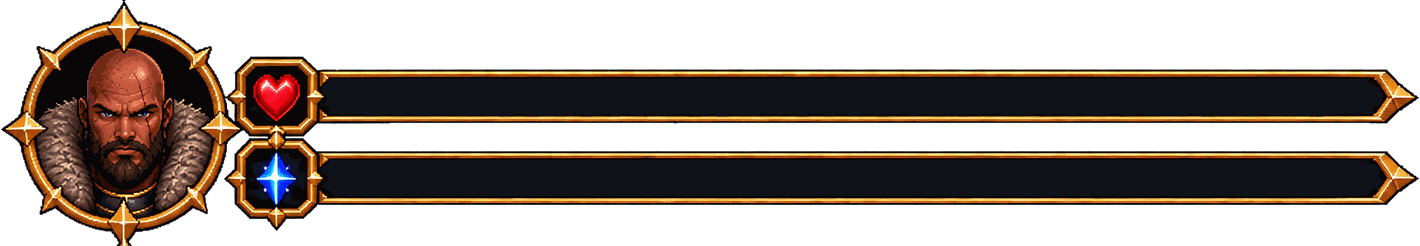
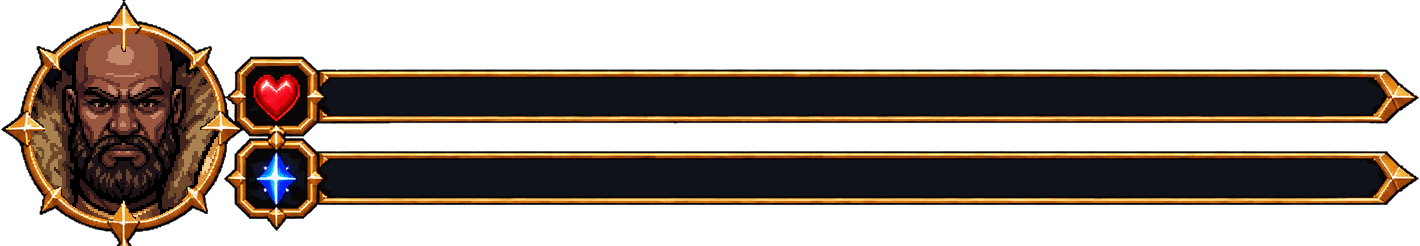
feat(arte): retratos dos herois em pixel art (HUD e menu de alvo) e placa FECHADO no estilo da carroca (v354)
Claude-Session: https://claude.ai/code/session_01CFCxNXfixuMsFnbxiF9Xf2

Changed region(s): [[0.0, 0.1423, 0.1549, 0.9106]]

diff --git a/sw.js b/sw.js
@@ -1,6 +1,6 @@
-const CACHE='bd1-rpg-v353';
+const CACHE='bd1-rpg-v354';
 const ASSETS=['./js/online/match.js','./relatorio.html','./css/relatorio.css','./js/pages/relatorio.js','./js/online/online.js','./saves.html','./css/saves.css','./js/pages/savesui.js','./conta.html','./css/conta.css','./js/pages/conta.js','./assets/salas/orb.png','./salas.html','./css/salas.css','./js/pages/salas.js','./js/core/gate.js','./js/online/net.js','./js/vendor/supabase.js','./assets/salas/ic_lock.png','./assets/salas/ic_unlock.png','./assets/salas/ic_people.png','./assets/salas/ic_plus.png','./assets/salas/ic_key.png','./assets/salas/ic_mage.png','./assets/salas/ic_guerreiro.png','./assets/salas/ic_tank.png','./assets/salas/ic_cleriga.png','./js/game/stage.js','./js/game/hrimgar.js','./js/game/ambient_ice.js','./assets/backgrounds/game_nohud_ice.png','./assets/backgrounds/game_clean_ice.png','./assets/bosses/hrimgar/a1.png','./assets/bosses/hrimgar/a2.png','./assets/bosses/hrimgar/a3.png','./assets/bosses/hrimgar/a4.png','./assets/bosses/hrimgar/a5.png','./assets/bosses/hrimgar/a6.png','./assets/bosses/hrimgar/fx.json','./assets/bosses/hrimgar/fx_blood.png','./assets/bosses/hrimgar/fx_flake.png','./assets/bosses/hrimgar/fx_frost.png','./assets/bosses/hrimgar/fx_pillar.png','./assets/bosses/hrimgar/fx_pillar2.png','./assets/bosses/hrimgar/fx_pillarb.png','./assets/bosses/hrimgar/fx_seal.png','./assets/bosses/hrimgar/fx_sh1.png','./assets/bosses/hrimgar/fx_sh2.png','./assets/bosses/hrimgar/fx_sh3.png','./assets/bosses/hrimgar/fx_shards.png','./assets/bosses/hrimgar/fx_shards2.png','./assets/bosses/hrimgar/fx_sl1.png','./assets/bosses/hrimgar/fx_sl2.png','./assets/bosses/hrimgar/fx_sl3.png','./assets/bosses/hrimgar/fx_sl4.png','./assets/bosses/hrimgar/fx_slline.png','./assets/bosses/hrimgar/fx_slx.png','./assets/bosses/hrimgar/meta.json','./assets/bosses/hrimgar/n1.png','./assets/bosses/hrimgar/n2.png','./assets/bosses/hrimgar/n3.png','./assets/bosses/hrimgar/n4.png','./assets/bosses/hrimgar/n5.png','./assets/bosses/hrimgar/n6.png','./assets/bosses/hrimgar/p1.png','./assets/bosses/hrimgar/p2.png','./assets/bosses/hrimgar/p3.png','./assets/bosses/hrimgar/p4.png','./assets/bosses/hrimgar/p5.png','./assets/bosses/hrimgar/p6.png','./assets/bosses/hrimgar/s1.png','./assets/bosses/hrimgar/v1.png','./assets/bosses/hrimgar/v2.png','./assets/bosses/hrimgar/v3.png','./assets/bosses/hrimgar/v4.png','./assets/bosses/hrimgar/v5.png','./assets/bosses/hrimgar/v6.png','./assets/bosses/hrimgar/w1.png','./assets/bosses/hrimgar/w2.png','./assets/bosses/hrimgar/w3.png','./assets/bosses/hrimgar/w4.png','./assets/bosses/hrimgar/w5.png','./assets/bosses/hrimgar/w6.png','./assets/bosses/hrimgar/x1.png','./assets/bosses/hrimgar/x2.png','./assets/bosses/hrimgar/x3.png','./assets/bosses/hrimgar/x4.png','./assets/bosses/hrimgar/x5.png','./assets/bosses/hrimgar/x6.png','./','./index.html','./game.html','./js/pages/lobby.js','./assets/ui/inv_panel.png','./assets/ui/shop_panel.png','./assets/ui/merchant_portrait.png','./assets/ui/shop_sign.png','./assets/ui/btn_bag.png','./assets/ui/btn_shop.png','./assets/ui/tip_parchment.png','./assets/class-select/skm_mage.png','./assets/class-select/skm_guerreiro.png','./assets/class-select/skm_tank.png','./assets/class-select/skm_cleriga.png','./assets/class-select/skm_mage_5.png','./assets/class-select/skm_guerreiro_5.png','./assets/class-select/skm_tank_5.png','./assets/class-select/skm_cleriga_5.png','./assets/skills/air.png','./assets/skills/back.png','./assets/skills/cleriga_atk.png','./assets/skills/cleriga_def.png','./assets/skills/cleriga_holy_atk.png','./assets/skills/cleriga_holy_def.png','./assets/skills/cleriga_ult.png','./assets/skills/dodge.png','./assets/skills/earth.png','./assets/skills/fire.png','./assets/skills/guerreiro_atk.png','./assets/skills/guerreiro_def.png','./assets/skills/guerreiro_heavy.png','./assets/skills/guerreiro_pass.png','./assets/skills/guerreiro_ult.png','./assets/skills/mage_elem_atk.png','./assets/skills/mage_elem_def.png','./assets/skills/mage_mana_atk.png','./assets/skills/mage_mana_def.png','./assets/skills/mage_ult.png','./assets/skills/tank_atk.png','./assets/skills/tank_def.png','./assets/skills/tank_guard.png','./assets/skills/tank_super.png','./assets/skills/tank_ult.png','./assets/skills/water.png','./js/game/menu_meta.js','./assets/ui/icon_chip_flame.png','./assets/ui/ui_cs_blue.png','./assets/ui/ui_cs_purple.png','./assets/ui/ui_cs_grey.png','./assets/ui/ui_cs_green.png','./assets/ui/ui_cs_red.png','./assets/ui/ui_cs_gold.png','./assets/ui/ui_chip_blue.png','./assets/ui/icon_chip_hourglass.png','./assets/ui/icon_chip_hourglass_red.png','./assets/ui/icon_chip_sword.png','./assets/ui/icon_chip_demon.png','./assets/ui/icon_chip_normal.png','./assets/ui/icon_chip_elem.png','./assets/ui/ui_box.png','./assets/ui/ui_chip.png','./assets/ui/ui_chip_hi.png','./assets/ui/ui_chip_red.png','./assets/class-select/tp_mage.png','./assets/class-select/tp_guerreiro.png','./assets/class-select/tp_tank.png','./assets/class-select/tp_cleriga.png','./css/lobby.css','./assets/backgrounds/select_plate.webp','./assets/ui/tip_frame.png','./assets/ui/enter_panel.png','./assets/ui/enter_btn.png','./assets/ui/enter_btn_on.png','./assets/ui/enter_btn_off.png','./assets/ui/pick_btn_on.png','./assets/ui/pick_btn_off.png','./assets/class-select/char_mage.webp','./assets/class-select/char_guerreiro.webp','./assets/class-select/char_tank.webp','./assets/class-select/char_cleriga.webp','./assets/class-select/panel_mage.webp','./assets/class-select/panel_guerreiro.webp','./assets/class-select/panel_tank.webp','./assets/class-select/panel_cleriga.webp','./css/style.css','./js/game/app.js','./js/game/anim.js','./js/game/extras.js','./js/core/pxfx.js','./js/game/boss.js','./assets/bosses/lorde/goblin.png','./js/game/ambient.js','./js/core/paper.js','./assets/fonts/openc.woff2','./assets/fonts/opencl.woff2','./assets/fonts/opend.woff2','./assets/fonts/pixelify-sans-latin-500-normal.woff2','./assets/fonts/pixelify-sans-latin-700-normal.woff2','./data/anim_manifest.json','./assets/skel/skel_face.png','./js/game/intro.js','./map.html','./css/fog.css','./js/core/fog.js','./assets/fog/top.webp','./assets/fog/bot.webp','./css/map.css','./js/pages/map.js','./js/core/quotes.js','./js/game/hud.js','./assets/map/ui_title.webp','./assets/map/ui_compass.webp','./assets/map/ui_legend.webp','./assets/map/ui_quote.webp','./js/pages/mapfx.js','./assets/map/water.png','./assets/map/base.webp','./assets/map/meta.json','./assets/map/ic_done.webp','./assets/map/ic_next.webp','./assets/map/ic_lock.webp','./assets/map/halo0_blue.webp','./assets/map/halo1_green.webp','./assets/map/gray0.webp','./assets/map/gray1.webp','./assets/map/gray2.webp','./assets/map/gray3.webp','./assets/map/gray4.webp','./assets/map/gray5.webp','./assets/intro/throne_close.webp','./assets/intro/throne_far.webp','./assets/intro/ice_close.webp','./assets/intro/ice_crack.webp','./assets/intro/ice_far.webp','./js/game/intro_ice.js','./js/game/intro_malg.js','./js/game/cine.js','./intro_malg.html','./assets/ui/mal_cap.png','./assets/intro/malg_hand.webp','./assets/intro/malg_face.webp','./assets/intro/malg_stand.webp','./assets/ui/ice_cap.png','./intro_ice.html','./assets/backgrounds/game_clean.png','./assets/backgrounds/game_nohud.png','./assets/hud/hud_mage.png','./assets/hud/hud_guerreiro.png','./assets/hud/hud_tank.png','./assets/hud/hud_cleriga.png','./assets/ui/question_panel.png','./assets/ui/icon_coin.png','./manifest.webmanifest','./assets/items/potion_hp.png','./assets/items/potion_hp_s.png','./assets/items/potion_hp_l.png','./assets/items/potion_mana_s.png','./assets/items/potion_mana_l.png','./assets/items/potion_mana.png','./assets/ui/btn_wood.png','./assets/ui/btn_dark.png','./assets/ui/btn_gold.png','./editor.html','./data/perguntas.json','./assets/items/chest_f0.png','./assets/items/chest_f1.png','./assets/items/chest_f2.png','./assets/items/chest_f3.png','./assets/items/item_amulet.png','./assets/items/item_blade.png','./assets/items/item_dice.png','./assets/items/item_elixir.png','./assets/items/item_helm.png','./assets/items/item_herb.png','./assets/items/item_hourglass.png','./assets/items/item_iron_shield.png','./assets/items/item_lens.png','./assets/items/item_lightbomb.png','./assets/items/item_luckycoin.png','./assets/items/item_phoenix.png','./assets/items/item_powder.png','./cover.html','./css/cover.css','./js/pages/cover.js','./js/core/rebuild.js','./js/core/pwtoggle.js','./espectar.html','./perguntas.html','./css/espectar.css','./js/pages/espectar.js','./js/online/spectate.js','./js/online/chat.js','./mosaico.html','./gerenciar.html','./css/gerenciar.css','./js/pages/gerenciar.js','./js/pages/mosaico.js','./js/pages/saves.js','./js/core/fs.js','./shell.html','./assets/ui/fs_icon.png','./assets/ui/fs_icon_in.png','./assets/backgrounds/cover_bg.webp','./assets/items/item_scroll.png','./assets/items/item_watch_s.png','./assets/items/item_watch_l.png','./assets/items/item_smokebomb.png','./assets/items/item_tonic.png','./js/game/vfx.js','./data/vfx_manifest.json','./assets/bosses/lorde/anim/manifest.json','./anim/mage_idle1.png','./anim/mage_idle2.png','./anim/mage_idle3.png','./anim/mage_cast_mm2.png','./anim/mage_defesa.png','./anim/mage_esquiva.png','./anim/mage_dano2.png','./anim/mage_acerto.png','./anim/mage_erro.png','./anim/mage_vitoria.png','./anim/mage_suprema_final.png','./anim/mage_morte.png','./anim/mage_reviver.png','./anim/cleriga_idle1.png','./anim/cleriga_idle2.png','./anim/cleriga_idle3.png','./anim/cleriga_holy.png','./anim/cleriga_melee.png','./anim/cleriga_defesa.png','./anim/cleriga_esquiva.png','./anim/cleriga_dano.png','./anim/cleriga_acerto.png','./anim/cleriga_erro.png','./anim/cleriga_vitoria.png','./anim/cleriga_ult.png','./anim/cleriga_morte.png','./anim/cleriga_reviver.png','./anim/tank_idle1.png','./anim/tank_idle2.png','./anim/tank_idle3.png','./anim/tank_melee.png','./anim/tank_heavy.png','./anim/tank_guard.png','./anim/tank_cover.png','./anim/tank_dodge.png','./anim/tank_hurt.png','./anim/tank_right.png','./anim/tank_wrong.png','./anim/tank_victory.png','./anim/tank_ult.png','./anim/tank_death.png','./anim/tank_revive.png','./anim/guerreiro_idle1.png','./anim/guerreiro_idle2.png','./anim/guerreiro_melee.png','./anim/guerreiro_heavy.png','./anim/guerreiro_guard.png','./anim/guerreiro_dodge.png','./anim/guerreiro_hurt.png','./anim/guerreiro_right.png','./anim/guerreiro_wrong.png','./anim/guerreiro_victory.png','./anim/guerreiro_ult.png','./anim/guerreiro_death.png','./anim/guerreiro_revive.png','./anim/guerreiro_pass.png','./assets/fx/maga-agua-conjuracao.png','./assets/fx/maga-agua-escudo.png','./assets/fx/maga-agua-impacto.png','./assets/fx/maga-agua-projetil.png','./assets/fx/maga-ar-conjuracao.png','./assets/fx/maga-ar-escudo.png','./assets/fx/maga-ar-impacto.png','./assets/fx/maga-ar-projetil.png','./assets/fx/maga-buraco-negro.png','./assets/fx/maga-esquiva-velocidade.png','./assets/fx/maga-fogo-conjuracao.png','./assets/fx/maga-fogo-escudo.png','./assets/fx/maga-fogo-impacto.png','./assets/fx/maga-fogo-projetil.png','./assets/fx/maga-mana-conjuracao.png','./assets/fx/maga-mana-escudo.png','./assets/fx/maga-mana-impacto.png','./assets/fx/maga-mana-projetil.png','./assets/fx/maga-terra-conjuracao.png','./assets/fx/maga-terra-escudo.png','./assets/fx/maga-terra-impacto.png','./assets/fx/maga-terra-projetil.png','./assets/fx/cleriga-defesa-escudo.png','./assets/fx/cleriga-sagrado-conjuracao.png','./assets/fx/cleriga-sagrado-escudo.png','./assets/fx/cleriga-sagrado-impacto.png','./assets/fx/cleriga-sagrado-raio.png','./assets/fx/fisico-impacto.png','./assets/fx/tank-martelo-impacto.png','./assets/fx/tank-onda-choque.png','./assets/fx/tank-protecao.png','./assets/fx/tank-provocacao.png','./assets/fx/tank-defesa.png','./assets/fx/guerreiro-corte-pesado.png','./assets/fx/guerreiro-corte.png','./assets/fx/guerreiro-passar.png','./assets/fx/guerreiro-berserk-frente.png','./assets/fx/guerreiro-berserk-tras.png','./assets/fx/malgorath-cacos.png','./assets/fx/malgorath-carga.png','./assets/fx/malgorath-corte.png','./assets/fx/malgorath-erupcao.png','./assets/fx/malgorath-explosao.png','./assets/fx/malgorath-fumaca.png','./assets/fx/malgorath-lanca.png','./assets/fx/malgorath-onda-choque.png','./assets/fx/malgorath-orbe.png','./assets/fx/malgorath-sigilo.png','./assets/bosses/lorde/anim/malgorath_idle.png','./assets/bosses/lorde/anim/malgorath_slashH.png','./assets/bosses/lorde/anim/malgorath_slashV.png','./assets/bosses/lorde/anim/malgorath_thrust.png','./assets/bosses/lorde/anim/malgorath_summon.png','./assets/bosses/lorde/anim/malgorath_aoe.png','./assets/bosses/lorde/anim/malgorath_enrage.png','./assets/bosses/lorde/anim/malgorath_phase2.png','./assets/bosses/lorde/anim/malgorath_prep.png','./assets/bosses/lorde/anim/malgorath_laugh.png','./assets/bosses/lorde/anim/malgorath_hurt.png','./assets/bosses/lorde/anim/malgorath_hurtLight.png','./assets/bosses/lorde/anim/malgorath_die.png','./assets/bosses/lorde/anim/malgorath_tpOut.png','./assets/bosses/lorde/anim/malgorath_tpIn.png','./assets/bosses/lorde/anim/malgorath_gagLook.png','./assets/bosses/lorde/anim/malgorath_gagDismiss.png'];
-const REV={"assets/salas/orb.png":"d1efaf7011","assets/salas/ic_lock.png":"1cc5035c6e","assets/salas/ic_unlock.png":"486731cc38","assets/salas/ic_people.png":"506120bfcd","assets/salas/ic_plus.png":"147d054e0d","assets/salas/ic_key.png":"02beda9450","assets/salas/ic_mage.png":"60ee1a09f4","assets/salas/ic_guerreiro.png":"6c899a1454","assets/salas/ic_tank.png":"9ea957d8b2","assets/salas/ic_cleriga.png":"1d6657480b","assets/backgrounds/game_nohud_ice.png":"5cb5477c12","assets/backgrounds/game_clean_ice.png":"5cb5477c12","assets/bosses/hrimgar/a1.png":"b0234f3b75","assets/bosses/hrimgar/a2.png":"63d40987f5","assets/bosses/hrimgar/a3.png":"10280dd9d4","assets/bosses/hrimgar/a4.png":"9781d8e255","assets/bosses/hrimgar/a5.png":"b5bd1af9e7","assets/bosses/hrimgar/a6.png":"80fbdc0921","assets/bosses/hrimgar/fx_blood.png":"7bfbaf12ce","assets/bosses/hrimgar/fx_flake.png":"2dc6a7d3ce","assets/bosses/hrimgar/fx_frost.png":"5d69cc54eb","assets/bosses/hrimgar/fx_pillar.png":"2111016d72","assets/bosses/hrimgar/fx_pillar2.png":"3c948df478","assets/bosses/hrimgar/fx_pillarb.png":"e753091964","assets/bosses/hrimgar/fx_seal.png":"fd3754ab69","assets/bosses/hrimgar/fx_sh1.png":"2b4d754866","assets/bosses/hrimgar/fx_sh2.png":"f2f76dec42","assets/bosses/hrimgar/fx_sh3.png":"100a2b7b2c","assets/bosses/hrimgar/fx_shards.png":"d93657d15a","assets/bosses/hrimgar/fx_shards2.png":"93f7b27c07","assets/bosses/hrimgar/fx_sl1.png":"816e41ae18","assets/bosses/hrimgar/fx_sl2.png":"8884db6345","assets/bosses/hrimgar/fx_sl3.png":"335d125092","assets/bosses/hrimgar/fx_sl4.png":"d2f7904826","assets/bosses/hrimgar/fx_slline.png":"3054785212","assets/bosses/hrimgar/fx_slx.png":"aace504f71","assets/bosses/hrimgar/n1.png":"7202ed24a6","assets/bosses/hrimgar/n2.png":"6dec7b74d2","assets/bosses/hrimgar/n3.png":"dd00445736","assets/bosses/hrimgar/n4.png":"ba0e290d37","assets/bosses/hrimgar/n5.png":"18757d4289","assets/bosses/hrimgar/n6.png":"61b383acff","assets/bosses/hrimgar/p1.png":"023057d663","assets/bosses/hrimgar/p2.png":"cde6a77cb3","assets/bosses/hrimgar/p3.png":"72d11dfc64","assets/bosses/hrimgar/p4.png":"e5801c650a","assets/bosses/hrimgar/p5.png":"d54f58a7a2","assets/bosses/hrimgar/p6.png":"d7313346e0","assets/bosses/hrimgar/s1.png":"77e88203c6","assets/bosses/hrimgar/v1.png":"d3d9dba592","assets/bosses/hrimgar/v2.png":"a155553b23","assets/bosses/hrimgar/v3.png":"b3ff557c1e","assets/bosses/hrimgar/v4.png":"b98eb338a0","assets/bosses/hrimgar/v5.png":"04bb27c1ea","assets/bosses/hrimgar/v6.png":"0bb5a7bb3c","assets/bosses/hrimgar/w1.png":"2099500d0e","assets/bosses/hrimgar/w2.png":"754bc5c981","assets/bosses/hrimgar/w3.png":"b037b9bf31","assets/bosses/hrimgar/w4.png":"623807d56e","assets/bosses/hrimgar/w5.png":"2862ac1f77","assets/bosses/hrimgar/w6.png":"b1e25c6860","assets/bosses/hrimgar/x1.png":"44a6e6f51d","assets/bosses/hrimgar/x2.png":"e9dac7d4ea","assets/bosses/hrimgar/x3.png":"ae4256e35a","assets/bosses/hrimgar/x4.png":"551bacda5a","assets/bosses/hrimgar/x5.png":"1d817fd7af","assets/bosses/hrimgar/x6.png":"f802a8f989","assets/ui/inv_panel.png":"aa48b37748","assets/ui/shop_panel.png":"27c0735cfc","assets/ui/merchant_portrait.png":"7defb297ab","assets/ui/shop_sign.png":"8471befff2","assets/ui/btn_bag.png":"51f5ac84a8","assets/ui/btn_shop.png":"04c2d188e0","assets/ui/tip_parchment.png":"32690c54ff","assets/class-select/skm_mage.png":"e01af5944d","assets/class-select/skm_guerreiro.png":"b6c453aba9","assets/class-select/skm_tank.png":"79900a343f","assets/class-select/skm_cleriga.png":"4d3e7d54a0","assets/class-select/skm_mage_5.png":"7c401867ce","assets/class-select/skm_guerreiro_5.png":"b8a776d29d","assets/class-select/skm_tank_5.png":"832c15f618","assets/class-select/skm_cleriga_5.png":"2442c0320f","assets/skills/air.png":"00f23ced94","assets/skills/back.png":"c19f110227","assets/skills/cleriga_atk.png":"6aef9c395c","assets/skills/cleriga_def.png":"9bcc3f5cae","assets/skills/cleriga_holy_atk.png":"2d3470cb85","assets/skills/cleriga_holy_def.png":"9f2738b8d5","assets/skills/cleriga_ult.png":"947aba1669","assets/skills/dodge.png":"ae6ee5c5fa","assets/skills/earth.png":"246f1615b3","assets/skills/fire.png":"104f862421","assets/skills/guerreiro_atk.png":"0e02ada494","assets/skills/guerreiro_def.png":"777863145e","assets/skills/guerreiro_heavy.png":"0505a0f6b1","assets/skills/guerreiro_pass.png":"a3bcc4250a","assets/skills/guerreiro_ult.png":"fb7e4db1b9","assets/skills/mage_elem_atk.png":"0e61c91948","assets/skills/mage_elem_def.png":"9f83151920","assets/skills/mage_mana_atk.png":"e38b33163d","assets/skills/mage_mana_def.png":"9fb60263a8","assets/skills/mage_ult.png":"91487212f5","assets/skills/tank_atk.png":"5e7cb605eb","assets/skills/tank_def.png":"4393303d5b","assets/skills/tank_guard.png":"f3a2535dd9","assets/skills/tank_super.png":"1a5d77eec3","assets/skills/tank_ult.png":"a12489b24b","assets/skills/water.png":"c3f2481fe3","assets/ui/icon_chip_flame.png":"8cc594b5eb","assets/ui/ui_cs_blue.png":"532e4ca80e","assets/ui/ui_cs_purple.png":"9300ab2e19","assets/ui/ui_cs_grey.png":"520b50c18b","assets/ui/ui_cs_green.png":"07a52ea496","assets/ui/ui_cs_red.png":"0c1a718a8e","assets/ui/ui_cs_gold.png":"b1dac451c0","assets/ui/ui_chip_blue.png":"801a791e2a","assets/ui/icon_chip_hourglass.png":"b52c6a9a5c","assets/ui/icon_chip_hourglass_red.png":"b212d04904","assets/ui/icon_chip_sword.png":"25daead56e","assets/ui/icon_chip_demon.png":"6c24e728ea","assets/ui/icon_chip_normal.png":"d9d3978bfa","assets/ui/icon_chip_elem.png":"f934dc60bd","assets/ui/ui_box.png":"6e1f21f399","assets/ui/ui_chip.png":"0b57493096","assets/ui/ui_chip_hi.png":"3e2aa78427","assets/ui/ui_chip_red.png":"1ec4342d38","assets/class-select/tp_mage.png":"4e3b06d227","assets/class-select/tp_guerreiro.png":"037d2af3de","assets/class-select/tp_tank.png":"380657090f","assets/class-select/tp_cleriga.png":"ac73076e1a","assets/backgrounds/select_plate.webp":"44465957fd","assets/ui/tip_frame.png":"c3369c78ff","assets/ui/enter_panel.png":"9775f0cc6d","assets/ui/enter_btn.png":"c4bdacfe4f","assets/ui/enter_btn_on.png":"489f938cb9","assets/ui/enter_btn_off.png":"88be22d64b","assets/ui/pick_btn_on.png":"ce8fff7eff","assets/ui/pick_btn_off.png":"8fc52bcab8","assets/class-select/char_mage.webp":"ae7addf5fc","assets/class-select/char_guerreiro.webp":"a2a98c558a","assets/class-select/char_tank.webp":"31f3c7fa56","assets/class-select/char_cleriga.webp":"545e5ca007","assets/class-select/panel_mage.webp":"b464a78046","assets/class-select/panel_guerreiro.webp":"3e2d40dec4","assets/class-select/panel_tank.webp":"14d775fb7a","assets/class-select/panel_cleriga.webp":"a642a181b8","assets/bosses/lorde/goblin.png":"5c82cbf4e2","assets/fonts/openc.woff2":"c936defdb6","assets/fonts/opencl.woff2":"3690b8193a","assets/fonts/opend.woff2":"34c0e0dc52","assets/fonts/pixelify-sans-latin-500-normal.woff2":"8573b1316f","assets/fonts/pixelify-sans-latin-700-normal.woff2":"34b68fb9c4","assets/skel/skel_face.png":"7cbbcdd549","assets/fog/top.webp":"76a4b0be7b","assets/fog/bot.webp":"8deec3f992","assets/map/ui_title.webp":"eab8cf29e2","assets/map/ui_compass.webp":"23c2e81a8f","assets/map/ui_legend.webp":"20ab66fefb","assets/map/ui_quote.webp":"f756681563","assets/map/water.png":"627679655f","assets/map/base.webp":"a86416c977","assets/map/ic_done.webp":"8b3e9e715f","assets/map/ic_next.webp":"f5f75fdac7","assets/map/ic_lock.webp":"785458918f","assets/map/halo0_blue.webp":"92326af589","assets/map/halo1_green.webp":"e58554abc4","assets/map/gray0.webp":"065108e8aa","assets/map/gray1.webp":"c2921ebd6d","assets/map/gray2.webp":"fb7f4595ad","assets/map/gray3.webp":"4bb3d354c0","assets/map/gray4.webp":"be9651d346","assets/map/gray5.webp":"f294079863","assets/intro/throne_close.webp":"8faab12112","assets/intro/throne_far.webp":"a1fb7f9369","assets/intro/ice_close.webp":"9dd5e0d9c6","assets/intro/ice_crack.webp":"d174e862df","assets/intro/ice_far.webp":"aaee89aebc","assets/ui/mal_cap.png":"a99b2df60f","assets/intro/malg_hand.webp":"8bc0438819","assets/intro/malg_face.webp":"9ae460e280","assets/intro/malg_stand.webp":"7aa4370c29","assets/ui/ice_cap.png":"6ac18bdbb9","assets/backgrounds/game_clean.png":"b49f7c3ffb","assets/backgrounds/game_nohud.png":"0162b9a68b","assets/hud/hud_mage.png":"ba04b1ea7d","assets/hud/hud_guerreiro.png":"eead66721d","assets/hud/hud_tank.png":"1f3acf26d8","assets/hud/hud_cleriga.png":"97c7801c4a","assets/ui/question_panel.png":"584a142acb","assets/ui/icon_coin.png":"b701da35c3","assets/items/potion_hp.png":"57f9e11910","assets/items/potion_hp_s.png":"bd483b20a8","assets/items/potion_hp_l.png":"3e2666035c","assets/items/potion_mana_s.png":"87b911d049","assets/items/potion_mana_l.png":"02b9f308c4","assets/items/potion_mana.png":"7822c4c93b","assets/ui/btn_wood.png":"779e92afad","assets/ui/btn_dark.png":"d52ebc15b9","assets/ui/btn_gold.png":"42c67655e6","assets/items/chest_f0.png":"e828ab2360","assets/items/chest_f1.png":"b8be9e5206","assets/items/chest_f2.png":"d1ea9fc16a","assets/items/chest_f3.png":"c84c7faec1","assets/items/item_amulet.png":"3957ec1d85","assets/items/item_blade.png":"4118e8221d","assets/items/item_dice.png":"00da4cd17a","assets/items/item_elixir.png":"741a8449cf","assets/items/item_helm.png":"22edf2a538","assets/items/item_herb.png":"1920914dd5","assets/items/item_hourglass.png":"070ef1d554","assets/items/item_iron_shield.png":"eb8c0dc70f","assets/items/item_lens.png":"9c4fd8d663","assets/items/item_lightbomb.png":"6a60691870","assets/items/item_luckycoin.png":"0ca9162b8a","assets/items/item_phoenix.png":"d17ec03554","assets/items/item_powder.png":"98e90083df","assets/ui/fs_icon.png":"929ca5cf37","assets/ui/fs_icon_in.png":"30ec70cc0d","assets/backgrounds/cover_bg.webp":"965bb56753","assets/items/item_scroll.png":"5421867816","assets/items/item_watch_s.png":"95721b39e4","assets/items/item_watch_l.png":"ab6dc96315","assets/items/item_smokebomb.png":"4fe16da5b7","assets/items/item_tonic.png":"2945f0b6c5","anim/mage_idle1.png":"ec03634787","anim/mage_idle2.png":"47ddbbde14","anim/mage_idle3.png":"e03ae5a01c","anim/mage_cast_mm2.png":"b9cb0d58ba","anim/mage_defesa.png":"07900280a9","anim/mage_esquiva.png":"e9d14d8ef8","anim/mage_dano2.png":"968a264711","anim/mage_acerto.png":"f42874f1ee","anim/mage_erro.png":"7d26c8d435","anim/mage_vitoria.png":"005c439974","anim/mage_suprema_final.png":"f569182c95","anim/mage_morte.png":"9c93243067","anim/mage_reviver.png":"97d41c971f","anim/cleriga_idle1.png":"17cbd6c4b8","anim/cleriga_idle2.png":"aa695faffd","anim/cleriga_idle3.png":"03038836c6","anim/cleriga_holy.png":"7c2be60ba2","anim/cleriga_melee.png":"64911f00ed","anim/cleriga_defesa.png":"a51383a37f","anim/cleriga_esquiva.png":"16e3077fc7","anim/cleriga_dano.png":"86006eed18","anim/cleriga_acerto.png":"8ec02ef48c","anim/cleriga_erro.png":"f9ee9f433b","anim/cleriga_vitoria.png":"fb3b89ed43","anim/cleriga_ult.png":"56fe91d108","anim/cleriga_morte.png":"0cb15e145e","anim/cleriga_reviver.png":"a08fcc3f8c","anim/tank_idle1.png":"af345f0c4d","anim/tank_idle2.png":"a8d879ecf1","anim/tank_idle3.png":"2c3073f7cf","anim/tank_melee.png":"16923e82a0","anim/tank_heavy.png":"967f969d2f","anim/tank_guard.png":"1450cf7d53","anim/tank_cover.png":"804e4c8cf3","anim/tank_dodge.png":"4ee3ed8f7f","anim/tank_hurt.png":"dec5c16e40","anim/tank_right.png":"5bce34792f","anim/tank_wrong.png":"8a976de905","anim/tank_victory.png":"3337af21e8","anim/tank_ult.png":"8ec162ef96","anim/tank_death.png":"948ed8ffe1","anim/tank_revive.png":"db3b0cd9f1","anim/guerreiro_idle1.png":"500ba960a3","anim/guerreiro_idle2.png":"f3872a79f6","anim/guerreiro_melee.png":"2fa6ea1b13","anim/guerreiro_heavy.png":"2aa27be08c","anim/guerreiro_guard.png":"44c9cf5624","anim/guerreiro_dodge.png":"9912a7eb1f","anim/guerreiro_hurt.png":"2a91018cab","anim/guerreiro_right.png":"a9a53d5426","anim/guerreiro_wrong.png":"f883ce98ba","anim/guerreiro_victory.png":"f270c211e2","anim/guerreiro_ult.png":"28b19e5133","anim/guerreiro_death.png":"811c000403","anim/guerreiro_revive.png":"512922c410","anim/guerreiro_pass.png":"623b3a7237","assets/fx/maga-agua-conjuracao.png":"c68e748f5b","assets/fx/maga-agua-escudo.png":"bbd0e5a22c","assets/fx/maga-agua-impacto.png":"599f7238e9","assets/fx/maga-agua-projetil.png":"94b5a2457a","assets/fx/maga-ar-conjuracao.png":"4d30472966","assets/fx/maga-ar-escudo.png":"59f7079b5f","assets/fx/maga-ar-impacto.png":"2eecef0796","assets/fx/maga-ar-projetil.png":"9beb87d5f9","assets/fx/maga-buraco-negro.png":"96c6eb5632","assets/fx/maga-esquiva-velocidade.png":"b945b4812d","assets/fx/maga-fogo-conjuracao.png":"d781161a83","assets/fx/maga-fogo-escudo.png":"8ee055e87f","assets/fx/maga-fogo-impacto.png":"ec3e942c39","assets/fx/maga-fogo-projetil.png":"e48ac5e61e","assets/fx/maga-mana-conjuracao.png":"3065a48be3","assets/fx/maga-mana-escudo.png":"3f5a007cde","assets/fx/maga-mana-impacto.png":"f317283e7d","assets/fx/maga-mana-projetil.png":"b2010c13b7","assets/fx/maga-terra-conjuracao.png":"314593ee9f","assets/fx/maga-terra-escudo.png":"e94b73c01d","assets/fx/maga-terra-impacto.png":"71883bd157","assets/fx/maga-terra-projetil.png":"ec73bfe198","assets/fx/cleriga-defesa-escudo.png":"c132a85978","assets/fx/cleriga-sagrado-conjuracao.png":"9e35cca722","assets/fx/cleriga-sagrado-escudo.png":"5391e067f6","assets/fx/cleriga-sagrado-impacto.png":"cf4e4ef6d4","assets/fx/cleriga-sagrado-raio.png":"6b0e74a1f2","assets/fx/fisico-impacto.png":"0cdec248bd","assets/fx/tank-martelo-impacto.png":"a7df8428c8","assets/fx/tank-onda-choque.png":"1ea0097e52","assets/fx/tank-protecao.png":"610ed49f4c","assets/fx/tank-provocacao.png":"3a6179e154","assets/fx/tank-defesa.png":"688c307083","assets/fx/guerreiro-corte-pesado.png":"5e295094af","assets/fx/guerreiro-corte.png":"c92b7d7927","assets/fx/guerreiro-passar.png":"c0d0464a4e","assets/fx/guerreiro-berserk-frente.png":"4b5c28290a","assets/fx/guerreiro-berserk-tras.png":"2e3d983e27","assets/fx/malgorath-cacos.png":"d8cc3a614d","assets/fx/malgorath-carga.png":"8b4557be5a","assets/fx/malgorath-corte.png":"4ca05dec6e","assets/fx/malgorath-erupcao.png":"a6ef5ef566","assets/fx/malgorath-explosao.png":"c231e99f1e","assets/fx/malgorath-fumaca.png":"9ea52cc4c6","assets/fx/malgorath-lanca.png":"e2ed12f47d","assets/fx/malgorath-onda-choque.png":"6d0b18b271","assets/fx/malgorath-orbe.png":"4a7774d762","assets/fx/malgorath-sigilo.png":"31dd61b29f","assets/bosses/lorde/anim/malgorath_idle.png":"76aadefa05","assets/bosses/lorde/anim/malgorath_slashH.png":"8dcdebac05","assets/bosses/lorde/anim/malgorath_slashV.png":"ecb4d164fa","assets/bosses/lorde/anim/malgorath_thrust.png":"af866b6924","assets/bosses/lorde/anim/malgorath_summon.png":"d92c2cced1","assets/bosses/lorde/anim/malgorath_aoe.png":"78c80110da","assets/bosses/lorde/anim/malgorath_enrage.png":"a6009ec11c","assets/bosses/lorde/anim/malgorath_phase2.png":"eaab28b5fd","assets/bosses/lorde/anim/malgorath_prep.png":"bcd07a9779","assets/bosses/lorde/anim/malgorath_laugh.png":"f31aed0d6a","assets/bosses/lorde/anim/malgorath_hurt.png":"00e6feb209","assets/bosses/lorde/anim/malgorath_hurtLight.png":"0db1e94f73","assets/bosses/lorde/anim/malgorath_die.png":"5eda7b2c21","assets/bosses/lorde/anim/malgorath_tpOut.png":"646a06ef6f","assets/bosses/lorde/anim/malgorath_tpIn.png":"8b09725965","assets/bosses/lorde/anim/malgorath_gagLook.png":"c63bfc18f2","assets/bosses/lorde/anim/malgorath_gagDismiss.png":"f19ea61583"};
+const REV={"assets/salas/orb.png":"d1efaf7011","assets/salas/ic_lock.png":"1cc5035c6e","assets/salas/ic_unlock.png":"486731cc38","assets/salas/ic_people.png":"506120bfcd","assets/salas/ic_plus.png":"147d054e0d","assets/salas/ic_key.png":"02beda9450","assets/salas/ic_mage.png":"60ee1a09f4","assets/salas/ic_guerreiro.png":"6c899a1454","assets/salas/ic_tank.png":"9ea957d8b2","assets/salas/ic_cleriga.png":"1d6657480b","assets/backgrounds/game_nohud_ice.png":"5cb5477c12","assets/backgrounds/game_clean_ice.png":"5cb5477c12","assets/bosses/hrimgar/a1.png":"b0234f3b75","assets/bosses/hrimgar/a2.png":"63d40987f5","assets/bosses/hrimgar/a3.png":"10280dd9d4","assets/bosses/hrimgar/a4.png":"9781d8e255","assets/bosses/hrimgar/a5.png":"b5bd1af9e7","assets/bosses/hrimgar/a6.png":"80fbdc0921","assets/bosses/hrimgar/fx_blood.png":"7bfbaf12ce","assets/bosses/hrimgar/fx_flake.png":"2dc6a7d3ce","assets/bosses/hrimgar/fx_frost.png":"5d69cc54eb","assets/bosses/hrimgar/fx_pillar.png":"2111016d72","assets/bosses/hrimgar/fx_pillar2.png":"3c948df478","assets/bosses/hrimgar/fx_pillarb.png":"e753091964","assets/bosses/hrimgar/fx_seal.png":"fd3754ab69","assets/bosses/hrimgar/fx_sh1.png":"2b4d754866","assets/bosses/hrimgar/fx_sh2.png":"f2f76dec42","assets/bosses/hrimgar/fx_sh3.png":"100a2b7b2c","assets/bosses/hrimgar/fx_shards.png":"d93657d15a","assets/bosses/hrimgar/fx_shards2.png":"93f7b27c07","assets/bosses/hrimgar/fx_sl1.png":"816e41ae18","assets/bosses/hrimgar/fx_sl2.png":"8884db6345","assets/bosses/hrimgar/fx_sl3.png":"335d125092","assets/bosses/hrimgar/fx_sl4.png":"d2f7904826","assets/bosses/hrimgar/fx_slline.png":"3054785212","assets/bosses/hrimgar/fx_slx.png":"aace504f71","assets/bosses/hrimgar/n1.png":"7202ed24a6","assets/bosses/hrimgar/n2.png":"6dec7b74d2","assets/bosses/hrimgar/n3.png":"dd00445736","assets/bosses/hrimgar/n4.png":"ba0e290d37","assets/bosses/hrimgar/n5.png":"18757d4289","assets/bosses/hrimgar/n6.png":"61b383acff","assets/bosses/hrimgar/p1.png":"023057d663","assets/bosses/hrimgar/p2.png":"cde6a77cb3","assets/bosses/hrimgar/p3.png":"72d11dfc64","assets/bosses/hrimgar/p4.png":"e5801c650a","assets/bosses/hrimgar/p5.png":"d54f58a7a2","assets/bosses/hrimgar/p6.png":"d7313346e0","assets/bosses/hrimgar/s1.png":"77e88203c6","assets/bosses/hrimgar/v1.png":"d3d9dba592","assets/bosses/hrimgar/v2.png":"a155553b23","assets/bosses/hrimgar/v3.png":"b3ff557c1e","assets/bosses/hrimgar/v4.png":"b98eb338a0","assets/bosses/hrimgar/v5.png":"04bb27c1ea","assets/bosses/hrimgar/v6.png":"0bb5a7bb3c","assets/bosses/hrimgar/w1.png":"2099500d0e","assets/bosses/hrimgar/w2.png":"754bc5c981","assets/bosses/hrimgar/w3.png":"b037b9bf31","assets/bosses/hrimgar/w4.png":"623807d56e","assets/bosses/hrimgar/w5.png":"2862ac1f77","assets/bosses/hrimgar/w6.png":"b1e25c6860","assets/bosses/hrimgar/x1.png":"44a6e6f51d","assets/bosses/hrimgar/x2.png":"e9dac7d4ea","assets/bosses/hrimgar/x3.png":"ae4256e35a","assets/bosses/hrimgar/x4.png":"551bacda5a","assets/bosses/hrimgar/x5.png":"1d817fd7af","assets/bosses/hrimgar/x6.png":"f802a8f989","assets/ui/inv_panel.png":"aa48b37748","assets/ui/shop_panel.png":"27c0735cfc","assets/ui/merchant_portrait.png":"7defb297ab","assets/ui/shop_sign.png":"689b4749e5","assets/ui/btn_bag.png":"51f5ac84a8","assets/ui/btn_shop.png":"04c2d188e0","assets/ui/tip_parchment.png":"32690c54ff","assets/class-select/skm_mage.png":"e01af5944d","assets/class-select/skm_guerreiro.png":"b6c453aba9","assets/class-select/skm_tank.png":"79900a343f","assets/class-select/skm_cleriga.png":"4d3e7d54a0","assets/class-select/skm_mage_5.png":"7c401867ce","assets/class-select/skm_guerreiro_5.png":"b8a776d29d","assets/class-select/skm_tank_5.png":"832c15f618","assets/class-select/skm_cleriga_5.png":"2442c0320f","assets/skills/air.png":"00f23ced94","assets/skills/back.png":"c19f110227","assets/skills/cleriga_atk.png":"6aef9c395c","assets/skills/cleriga_def.png":"9bcc3f5cae","assets/skills/cleriga_holy_atk.png":"2d3470cb85","assets/skills/cleriga_holy_def.png":"9f2738b8d5","assets/skills/cleriga_ult.png":"947aba1669","assets/skills/dodge.png":"ae6ee5c5fa","assets/skills/earth.png":"246f1615b3","assets/skills/fire.png":"104f862421","assets/skills/guerreiro_atk.png":"0e02ada494","assets/skills/guerreiro_def.png":"777863145e","assets/skills/guerreiro_heavy.png":"0505a0f6b1","assets/skills/guerreiro_pass.png":"a3bcc4250a","assets/skills/guerreiro_ult.png":"fb7e4db1b9","assets/skills/mage_elem_atk.png":"0e61c91948","assets/skills/mage_elem_def.png":"9f83151920","assets/skills/mage_mana_atk.png":"e38b33163d","assets/skills/mage_mana_def.png":"9fb60263a8","assets/skills/mage_ult.png":"91487212f5","assets/skills/tank_atk.png":"5e7cb605eb","assets/skills/tank_def.png":"4393303d5b","assets/skills/tank_guard.png":"f3a2535dd9","assets/skills/tank_super.png":"1a5d77eec3","assets/skills/tank_ult.png":"a12489b24b","assets/skills/water.png":"c3f2481fe3","assets/ui/icon_chip_flame.png":"8cc594b5eb","assets/ui/ui_cs_blue.png":"532e4ca80e","assets/ui/ui_cs_purple.png":"9300ab2e19","assets/ui/ui_cs_grey.png":"520b50c18b","assets/ui/ui_cs_green.png":"07a52ea496","assets/ui/ui_cs_red.png":"0c1a718a8e","assets/ui/ui_cs_gold.png":"b1dac451c0","assets/ui/ui_chip_blue.png":"801a791e2a","assets/ui/icon_chip_hourglass.png":"b52c6a9a5c","assets/ui/icon_chip_hourglass_red.png":"b212d04904","assets/ui/icon_chip_sword.png":"25daead56e","assets/ui/icon_chip_demon.png":"6c24e728ea","assets/ui/icon_chip_normal.png":"d9d3978bfa","assets/ui/icon_chip_elem.png":"f934dc60bd","assets/ui/ui_box.png":"6e1f21f399","assets/ui/ui_chip.png":"0b57493096","assets/ui/ui_chip_hi.png":"3e2aa78427","assets/ui/ui_chip_red.png":"1ec4342d38","assets/class-select/tp_mage.png":"7bcf1ad2ba","assets/class-select/tp_guerreiro.png":"f30375b57e","assets/class-select/tp_tank.png":"fc7d00b085","assets/class-select/tp_cleriga.png":"a338367478","assets/backgrounds/select_plate.webp":"44465957fd","assets/ui/tip_frame.png":"c3369c78ff","assets/ui/enter_panel.png":"9775f0cc6d","assets/ui/enter_btn.png":"c4bdacfe4f","assets/ui/enter_btn_on.png":"489f938cb9","assets/ui/enter_btn_off.png":"88be22d64b","assets/ui/pick_btn_on.png":"ce8fff7eff","assets/ui/pick_btn_off.png":"8fc52bcab8","assets/class-select/char_mage.webp":"ae7addf5fc","assets/class-select/char_guerreiro.webp":"a2a98c558a","assets/class-select/char_tank.webp":"31f3c7fa56","assets/class-select/char_cleriga.webp":"545e5ca007","assets/class-select/panel_mage.webp":"b464a78046","assets/class-select/panel_guerreiro.webp":"3e2d40dec4","assets/class-select/panel_tank.webp":"14d775fb7a","assets/class-select/panel_cleriga.webp":"a642a181b8","assets/bosses/lorde/goblin.png":"5c82cbf4e2","assets/fonts/openc.woff2":"c936defdb6","assets/fonts/opencl.woff2":"3690b8193a","assets/fonts/opend.woff2":"34c0e0dc52","assets/fonts/pixelify-sans-latin-500-normal.woff2":"8573b1316f","assets/fonts/pixelify-sans-latin-700-normal.woff2":"34b68fb9c4","assets/skel/skel_face.png":"7cbbcdd549","assets/fog/top.webp":"76a4b0be7b","assets/fog/bot.webp":"8deec3f992","assets/map/ui_title.webp":"eab8cf29e2","assets/map/ui_compass.webp":"23c2e81a8f","assets/map/ui_legend.webp":"20ab66fefb","assets/map/ui_quote.webp":"f756681563","assets/map/water.png":"627679655f","assets/map/base.webp":"a86416c977","assets/map/ic_done.webp":"8b3e9e715f","assets/map/ic_next.webp":"f5f75fdac7","assets/map/ic_lock.webp":"785458918f","assets/map/halo0_blue.webp":"92326af589","assets/map/halo1_green.webp":"e58554abc4","assets/map/gray0.webp":"065108e8aa","assets/map/gray1.webp":"c2921ebd6d","assets/map/gray2.webp":"fb7f4595ad","assets/map/gray3.webp":"4bb3d354c0","assets/map/gray4.webp":"be9651d346","assets/map/gray5.webp":"f294079863","assets/intro/throne_close.webp":"8faab12112","assets/intro/throne_far.webp":"a1fb7f9369","assets/intro/ice_close.webp":"9dd5e0d9c6","assets/intro/ice_crack.webp":"d174e862df","assets/intro/ice_far.webp":"aaee89aebc","assets/ui/mal_cap.png":"a99b2df60f","assets/intro/malg_hand.webp":"8bc0438819","assets/intro/malg_face.webp":"9ae460e280","assets/intro/malg_stand.webp":"7aa4370c29","assets/ui/ice_cap.png":"6ac18bdbb9","assets/backgrounds/game_clean.png":"b49f7c3ffb","assets/backgrounds/game_nohud.png":"0162b9a68b","assets/hud/hud_mage.png":"031c2d9133","assets/hud/hud_guerreiro.png":"19565bd165","assets/hud/hud_tank.png":"fb5ad58a5f","assets/hud/hud_cleriga.png":"c54aef1eb8","assets/ui/question_panel.png":"584a142acb","assets/ui/icon_coin.png":"b701da35c3","assets/items/potion_hp.png":"57f9e11910","assets/items/potion_hp_s.png":"bd483b20a8","assets/items/potion_hp_l.png":"3e2666035c","assets/items/potion_mana_s.png":"87b911d049","assets/items/potion_mana_l.png":"02b9f308c4","assets/items/potion_mana.png":"7822c4c93b","assets/ui/btn_wood.png":"779e92afad","assets/ui/btn_dark.png":"d52ebc15b9","assets/ui/btn_gold.png":"42c67655e6","assets/items/chest_f0.png":"e828ab2360","assets/items/chest_f1.png":"b8be9e5206","assets/items/chest_f2.png":"d1ea9fc16a","assets/items/chest_f3.png":"c84c7faec1","assets/items/item_amulet.png":"3957ec1d85","assets/items/item_blade.png":"4118e8221d","assets/items/item_dice.png":"00da4cd17a","assets/items/item_elixir.png":"741a8449cf","assets/items/item_helm.png":"22edf2a538","assets/items/item_herb.png":"1920914dd5","assets/items/item_hourglass.png":"070ef1d554","assets/items/item_iron_shield.png":"eb8c0dc70f","assets/items/item_lens.png":"9c4fd8d663","assets/items/item_lightbomb.png":"6a60691870","assets/items/item_luckycoin.png":"0ca9162b8a","assets/items/item_phoenix.png":"d17ec03554","assets/items/item_powder.png":"98e90083df","assets/ui/fs_icon.png":"929ca5cf37","assets/ui/fs_icon_in.png":"30ec70cc0d","assets/backgrounds/cover_bg.webp":"965bb56753","assets/items/item_scroll.png":"5421867816","assets/items/item_watch_s.png":"95721b39e4","assets/items/item_watch_l.png":"ab6dc96315","assets/items/item_smokebomb.png":"4fe16da5b7","assets/items/item_tonic.png":"2945f0b6c5","anim/mage_idle1.png":"ec03634787","anim/mage_idle2.png":"47ddbbde14","anim/mage_idle3.png":"e03ae5a01c","anim/mage_cast_mm2.png":"b9cb0d58ba","anim/mage_defesa.png":"07900280a9","anim/mage_esquiva.png":"e9d14d8ef8","anim/mage_dano2.png":"968a264711","anim/mage_acerto.png":"f42874f1ee","anim/mage_erro.png":"7d26c8d435","anim/mage_vitoria.png":"005c439974","anim/mage_suprema_final.png":"f569182c95","anim/mage_morte.png":"9c93243067","anim/mage_reviver.png":"97d41c971f","anim/cleriga_idle1.png":"17cbd6c4b8","anim/cleriga_idle2.png":"aa695faffd","anim/cleriga_idle3.png":"03038836c6","anim/cleriga_holy.png":"7c2be60ba2","anim/cleriga_melee.png":"64911f00ed","anim/cleriga_defesa.png":"a51383a37f","anim/cleriga_esquiva.png":"16e3077fc7","anim/cleriga_dano.png":"86006eed18","anim/cleriga_acerto.png":"8ec02ef48c","anim/cleriga_erro.png":"f9ee9f433b","anim/cleriga_vitoria.png":"fb3b89ed43","anim/cleriga_ult.png":"56fe91d108","anim/cleriga_morte.png":"0cb15e145e","anim/cleriga_reviver.png":"a08fcc3f8c","anim/tank_idle1.png":"af345f0c4d","anim/tank_idle2.png":"a8d879ecf1","anim/tank_idle3.png":"2c3073f7cf","anim/tank_melee.png":"16923e82a0","anim/tank_heavy.png":"967f969d2f","anim/tank_guard.png":"1450cf7d53","anim/tank_cover.png":"804e4c8cf3","anim/tank_dodge.png":"4ee3ed8f7f","anim/tank_hurt.png":"dec5c16e40","anim/tank_right.png":"5bce34792f","anim/tank_wrong.png":"8a976de905","anim/tank_victory.png":"3337af21e8","anim/tank_ult.png":"8ec162ef96","anim/tank_death.png":"948ed8ffe1","anim/tank_revive.png":"db3b0cd9f1","anim/guerreiro_idle1.png":"500ba960a3","anim/guerreiro_idle2.png":"f3872a79f6","anim/guerreiro_melee.png":"2fa6ea1b13","anim/guerreiro_heavy.png":"2aa27be08c","anim/guerreiro_guard.png":"44c9cf5624","anim/guerreiro_dodge.png":"9912a7eb1f","anim/guerreiro_hurt.png":"2a91018cab","anim/guerreiro_right.png":"a9a53d5426","anim/guerreiro_wrong.png":"f883ce98ba","anim/guerreiro_victory.png":"f270c211e2","anim/guerreiro_ult.png":"28b19e5133","anim/guerreiro_death.png":"811c000403","anim/guerreiro_revive.png":"512922c410","anim/guerreiro_pass.png":"623b3a7237","assets/fx/maga-agua-conjuracao.png":"c68e748f5b","assets/fx/maga-agua-escudo.png":"bbd0e5a22c","assets/fx/maga-agua-impacto.png":"599f7238e9","assets/fx/maga-agua-projetil.png":"94b5a2457a","assets/fx/maga-ar-conjuracao.png":"4d30472966","assets/fx/maga-ar-escudo.png":"59f7079b5f","assets/fx/maga-ar-impacto.png":"2eecef0796","assets/fx/maga-ar-projetil.png":"9beb87d5f9","assets/fx/maga-buraco-negro.png":"96c6eb5632","assets/fx/maga-esquiva-velocidade.png":"b945b4812d","assets/fx/maga-fogo-conjuracao.png":"d781161a83","assets/fx/maga-fogo-escudo.png":"8ee055e87f","assets/fx/maga-fogo-impacto.png":"ec3e942c39","assets/fx/maga-fogo-projetil.png":"e48ac5e61e","assets/fx/maga-mana-conjuracao.png":"3065a48be3","assets/fx/maga-mana-escudo.png":"3f5a007cde","assets/fx/maga-mana-impacto.png":"f317283e7d","assets/fx/maga-mana-projetil.png":"b2010c13b7","assets/fx/maga-terra-conjuracao.png":"314593ee9f","assets/fx/maga-terra-escudo.png":"e94b73c01d","assets/fx/maga-terra-impacto.png":"71883bd157","assets/fx/maga-terra-projetil.png":"ec73bfe198","assets/fx/cleriga-defesa-escudo.png":"c132a85978","assets/fx/cleriga-sagrado-conjuracao.png":"9e35cca722","assets/fx/cleriga-sagrado-escudo.png":"5391e067f6","assets/fx/cleriga-sagrado-impacto.png":"cf4e4ef6d4","assets/fx/cleriga-sagrado-raio.png":"6b0e74a1f2","assets/fx/fisico-impacto.png":"0cdec248bd","assets/fx/tank-martelo-impacto.png":"a7df8428c8","assets/fx/tank-onda-choque.png":"1ea0097e52","assets/fx/tank-protecao.png":"610ed49f4c","assets/fx/tank-provocacao.png":"3a6179e154","assets/fx/tank-defesa.png":"688c307083","assets/fx/guerreiro-corte-pesado.png":"5e295094af","assets/fx/guerreiro-corte.png":"c92b7d7927","assets/fx/guerreiro-passar.png":"c0d0464a4e","assets/fx/guerreiro-berserk-frente.png":"4b5c28290a","assets/fx/guerreiro-berserk-tras.png":"2e3d983e27","assets/fx/malgorath-cacos.png":"d8cc3a614d","assets/fx/malgorath-carga.png":"8b4557be5a","assets/fx/malgorath-corte.png":"4ca05dec6e","assets/fx/malgorath-erupcao.png":"a6ef5ef566","assets/fx/malgorath-explosao.png":"c231e99f1e","assets/fx/malgorath-fumaca.png":"9ea52cc4c6","assets/fx/malgorath-lanca.png":"e2ed12f47d","assets/fx/malgorath-onda-choque.png":"6d0b18b271","assets/fx/malgorath-orbe.png":"4a7774d762","assets/fx/malgorath-sigilo.png":"31dd61b29f","assets/bosses/lorde/anim/malgorath_idle.png":"76aadefa05","assets/bosses/lorde/anim/malgorath_slashH.png":"8dcdebac05","assets/bosses/lorde/anim/malgorath_slashV.png":"ecb4d164fa","assets/bosses/lorde/anim/malgorath_thrust.png":"af866b6924","assets/bosses/lorde/anim/malgorath_summon.png":"d92c2cced1","assets/bosses/lorde/anim/malgorath_aoe.png":"78c80110da","assets/bosses/lorde/anim/malgorath_enrage.png":"a6009ec11c","assets/bosses/lorde/anim/malgorath_phase2.png":"eaab28b5fd","assets/bosses/lorde/anim/malgorath_prep.png":"bcd07a9779","assets/bosses/lorde/anim/malgorath_laugh.png":"f31aed0d6a","assets/bosses/lorde/anim/malgorath_hurt.png":"00e6feb209","assets/bosses/lorde/anim/malgorath_hurtLight.png":"0db1e94f73","assets/bosses/lorde/anim/malgorath_die.png":"5eda7b2c21","assets/bosses/lorde/anim/malgorath_tpOut.png":"646a06ef6f","assets/bosses/lorde/anim/malgorath_tpIn.png":"8b09725965","assets/bosses/lorde/anim/malgorath_gagLook.png":"c63bfc18f2","assets/bosses/lorde/anim/malgorath_gagDismiss.png":"f19ea61583"};
 // Cache em duas partes (v339):
 //  CODIGO (paginas, scripts, estilos, dados): um cache por versao, baixado inteiro ao instalar; as paginas abrem dele na hora.
 //    A versao nova instala em segundo plano e vale a partir da proxima troca de tela (o botao ATUALIZAR da capa forca a troca).

diff --git a/css/style.css b/css/style.css
@@ -890,7 +890,7 @@ canvas.hero.frozen{filter:brightness(1.25) saturate(.45) hue-rotate(165deg) drop
 #shop-panel .m-stage{left:13.125%;top:29.92%;width:19.375%;height:45.45%;z-index:1}
 #shop-panel .m-port{background:url(../assets/ui/merchant_portrait.png) center/100% 100% no-repeat;image-rendering:pixelated}
 #shop-panel .m-closed{left:0;-webkit-mask-image:none;mask-image:none}
-#shop-panel .m-sign{left:9%;top:-2%;width:82%}
+#shop-panel .m-sign{left:9.7%;top:-2%;width:80.65%}   /* placa 100 px no vao de 124 px: pixel 1:1 com a carroca */
 #shop-panel .m-candle{z-index:3}
 #shop-panel .m-candle.l{left:35.5%;top:32%;width:6%;height:16%}
 #shop-panel .m-candle.r{display:none}
@@ -942,7 +942,7 @@ canvas.hero.frozen{filter:brightness(1.25) saturate(.45) hue-rotate(165deg) drop
 .skm-frame{image-rendering:pixelated}
 .sk-card.v2{overflow:visible}
 .sk-card.v2 .s2-ico{position:absolute;object-fit:contain;image-rendering:pixelated;pointer-events:none;padding:0;box-sizing:border-box}
-.sk-card.v2 .s2-ico.face{padding:0;object-fit:cover}
+.sk-card.v2 .s2-ico.face{padding:0;object-fit:cover;image-rendering:auto}   /* retrato 88 px reduzido no cartao: suave em vez de pular pixel */
 .sk-card.v2 .s2-txt{position:absolute;right:3%;top:6%;bottom:6%;display:flex;flex-direction:column;justify-content:center;gap:.8cqw;overflow:hidden;min-width:0;text-align:left;pointer-events:none}
 .sk-card.v2 .s2-name{flex:none;font:700 2.6cqw/1.05 OpenC,OpenCl,OpenD,'Pixelify Sans',monospace;letter-spacing:.05cqw;display:-webkit-box;-webkit-line-clamp:2;-webkit-box-orient:vertical;overflow:hidden}
 .sk-card.v2 .s2-desc{flex:none;font-size:1.55cqw;line-height:1.12;display:-webkit-box;-webkit-line-clamp:2;-webkit-box-orient:vertical;overflow:hidden}

diff --git a/js/pages/cover.js b/js/pages/cover.js
@@ -93,7 +93,7 @@ requestAnimationFrame(frame);
 document.addEventListener('visibilitychange', () => { if (document.hidden) run = false; else if (!run) { run = true; last = performance.now(); requestAnimationFrame(frame); } });
 
 // ---------- atualizar (versão do jogo) ----------
-{ const V='v353', b = $('#upd'); b.textContent = '↻ ATUALIZAR · ' + V;
+{ const V='v354', b = $('#upd'); b.textContent = '↻ ATUALIZAR · ' + V;
   // v339: pede ao service worker a versao nova e espera ela assumir (so baixa o que mudou; antes apagava tudo e baixava os 85 MB de novo)
   b.onclick = async () => { b.disabled = true; b.textContent = 'ATUALIZANDO…';
     try { const r = 'serviceWorker' in navigator ? await navigator.serviceWorker.getRegistration() : null;
